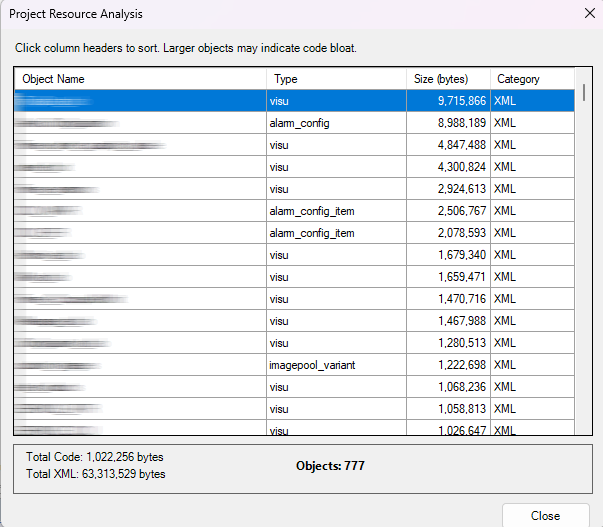
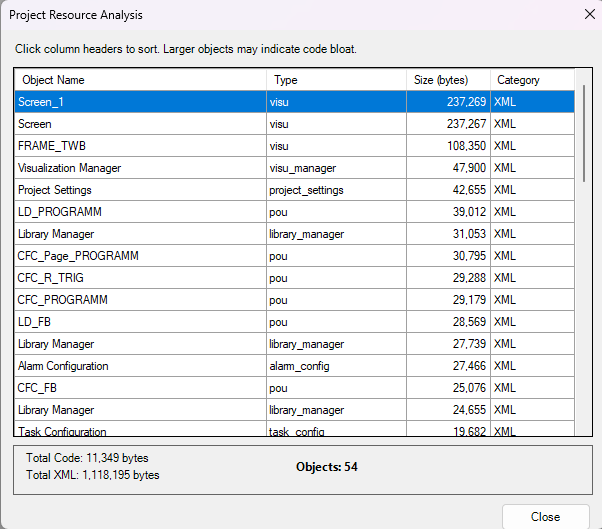
feat: Add `Project_resources.png` and update its reference in the readme to use lowercase filename.

Changed region(s): [[0.0, 0.0, 0.9867, 1.0], [0.8073, 0.9715, 0.8372, 1.0]]

diff --git a/readMe.md b/readMe.md
@@ -171,7 +171,7 @@ Updates the CODESYS project from the files on disk.
 
 **Analyze project objects by size/complexity.** Helps identify "code bloat" by measuring source code length and XML export size for graphical objects.
 
-![Resource Analysis](img/Project_resources.png)
+![Resource Analysis](img/project_resources.png)
 
 - **Interactive Grid**: Results displayed in a sortable dialog showing Object Name, Type, Size, and Category (Code/XML).
 - **Identify Bloat**: Quickly find large visualizations, complex POUs, or oversized configurations.
